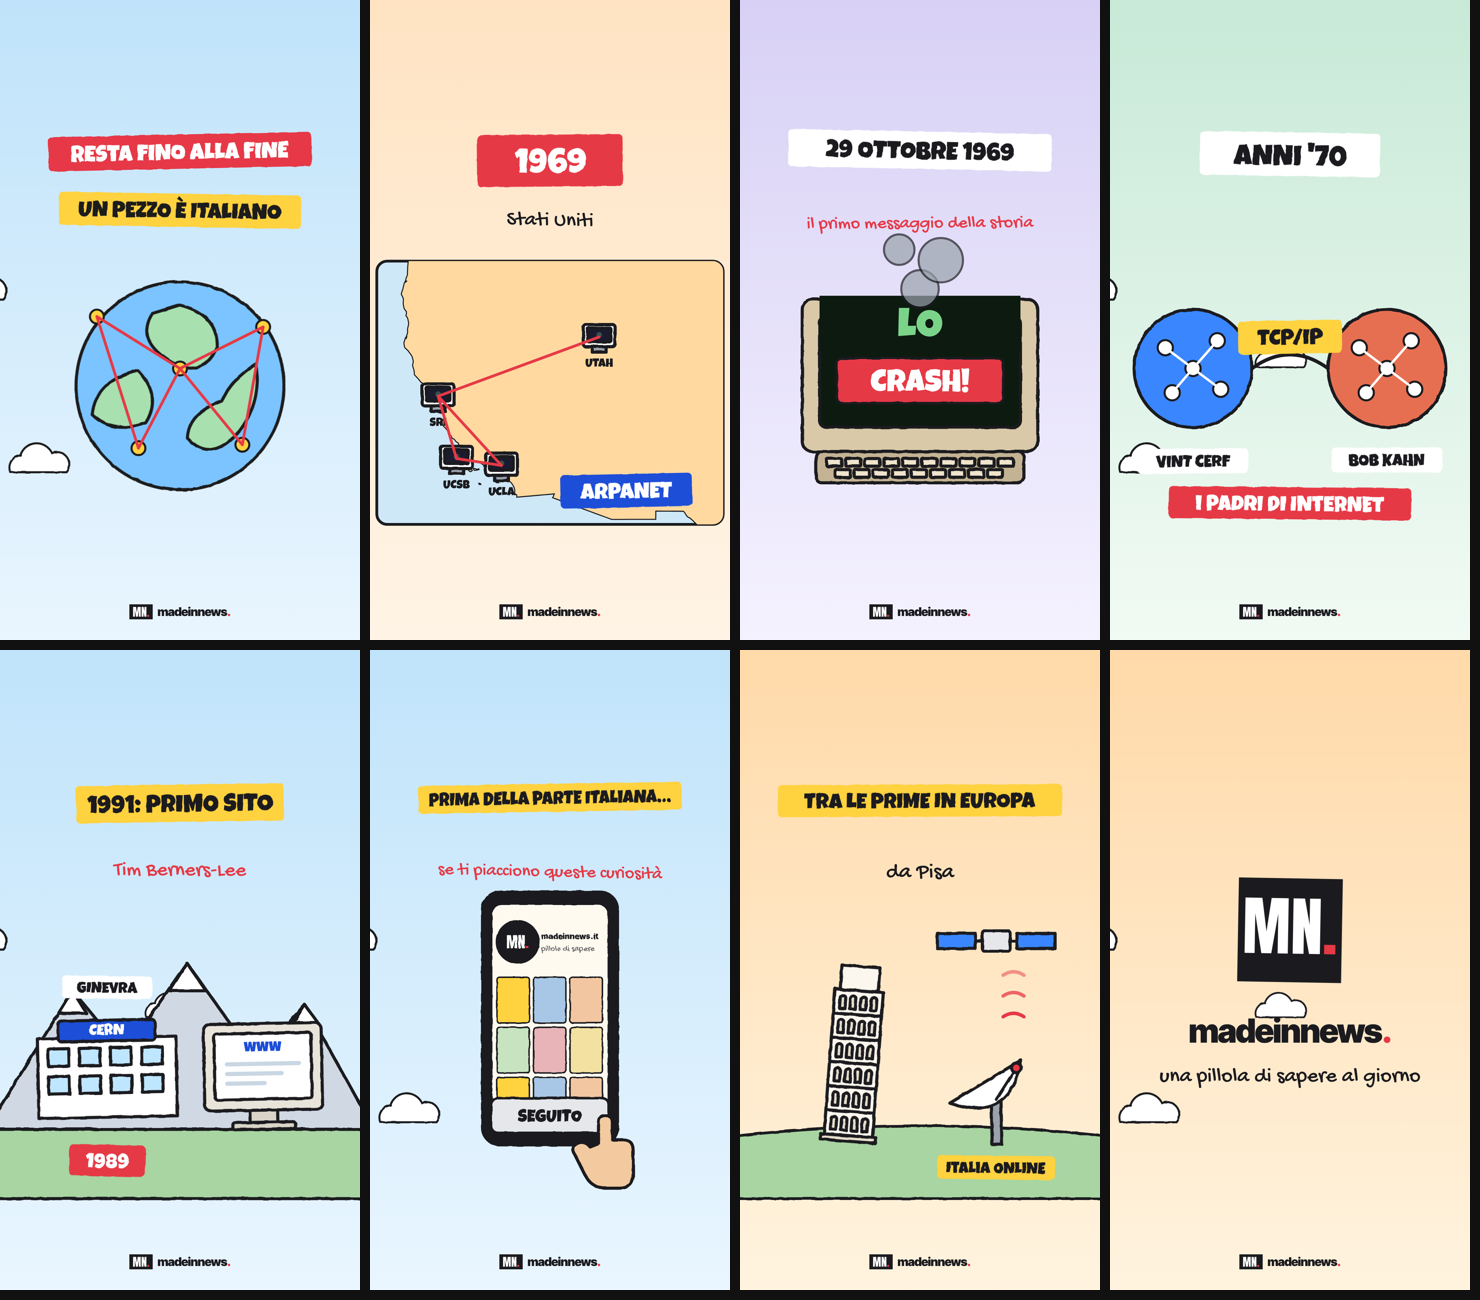
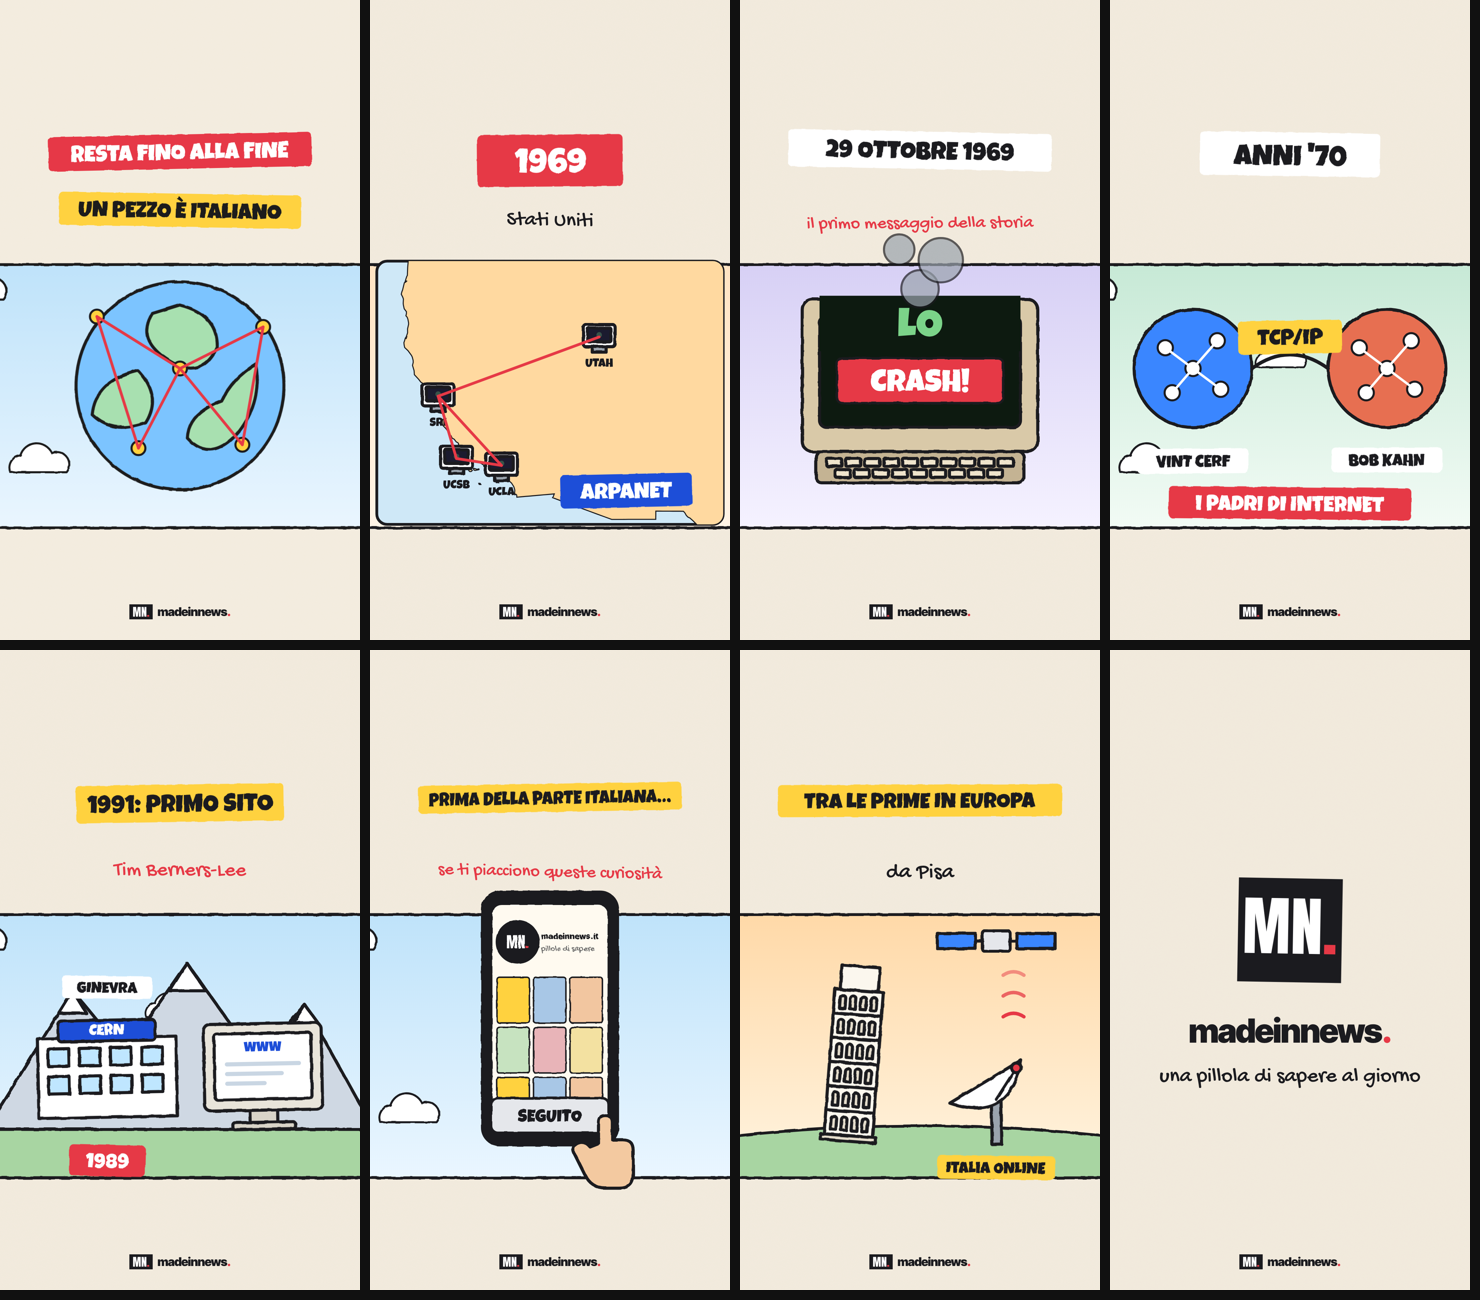
Internet: sfondo crema come GTA
Claude-Session: https://claude.ai/code/session_01RiLp1FWEa9A5i6rpLf5r8e

diff --git a/engine/internet_build.js b/engine/internet_build.js
@@ -86,11 +86,12 @@ const phoneCTA=(t1,t2,t3)=>`<g data-rise="${t1},0.6,600">${phone(540,1100,0.85)}
  <g data-fade="${t2},0.15" style="opacity:0"><g data-mv="0,0.01,500,500,500,500,${t2},0.5,500,500,0,0"><g transform="translate(680,1460)" filter="url(#wob)" ${W}><path d="M0 0 L0 -60 Q0 -80 20 -80 Q40 -80 40 -60 L40 -10 L70 -10 Q100 -10 100 20 L100 90 Q100 130 60 130 L20 130 Q-20 130 -40 90 L-70 30 Q-80 10 -60 0 Q-40 -8 -25 10Z" fill="#f3c9a0"/></g></g></g>`;
 const M=JSON.parse(fs.readFileSync(__dirname+'/assets/atlantico.json','utf8'));
 const usaD=M.paths['United States of America'];
+let SBI=0;const skyBand=(c1,c2)=>{const id='sb'+(SBI++);return `<defs><linearGradient id="${id}" x1="0" y1="0" x2="0" y2="1"><stop offset="0" stop-color="${c1}"/><stop offset="1" stop-color="${c2}"/></linearGradient></defs><rect x="0" y="800" width="1080" height="760" fill="url(#${id})"/><g filter="url(#wob)"><line x1="-10" y1="800" x2="1090" y2="800" stroke="${INK}" stroke-width="8"/><line x1="-10" y1="1560" x2="1090" y2="1560" stroke="${INK}" stroke-width="8"/></g>`};
 const node=(x,y,t,l)=>`<g data-pop="${t},0.4" ${C}><g filter="url(#wob)" ${W}><rect x="${x-46}" y="${y-36}" width="92" height="64" rx="8" fill="#fff"/><rect x="${x-34}" y="${y-26}" width="68" height="40" rx="4" fill="#1b1b2f"/><rect x="${x-20}" y="${y+28}" width="40" height="16" fill="#9aa3ad"/></g><circle cx="${x}" cy="${y-6}" r="8" fill="#7bd389" data-flash="${t},0.5,0.3"/>${l?`<text x="${x}" y="${y+86}" text-anchor="middle" ${F('Luckiest Guy')} font-size="34" fill="${INK}">${l}</text>`:''}</g>`;
 const terminal=(x,y)=>`<g transform="translate(${x},${y})"><g filter="url(#wob)" ${W}><rect x="-340" y="-250" width="680" height="440" rx="30" fill="#d9c9a8"/><rect x="-290" y="-200" width="580" height="320" rx="20" fill="#0d1a10"/><rect x="-300" y="190" width="600" height="90" rx="16" fill="#c4b393"/>${[...Array(10)].map((_,k)=>`<rect x="${-270+k*55}" y="210" width="44" height="22" rx="4" fill="#efe4cc"/>`).join('')}${[...Array(9)].map((_,k)=>`<rect x="${-245+k*55}" y="242" width="44" height="22" rx="4" fill="#efe4cc"/>`).join('')}</g></g>`;
 const smoke=(x,y,t)=>`<g data-fade="${t},0.3" style="opacity:0">${[0,1,2].map(k=>`<g data-loop="0,-160,${1.3+k*0.3}"><circle cx="${x-60+k*60}" cy="${y}" r="${44+k*10}" fill="#9aa3ad" opacity=".7" stroke="${INK}" stroke-width="6"/></g>`).join('')}</g>`;
 const netCloud=(x,y,c,t)=>`<g data-pop="${t},0.5" ${C}><g filter="url(#wob)" ${W}><circle cx="${x}" cy="${y}" r="170" fill="${c}"/></g>${[[-80,-60],[70,-80],[-60,70],[80,60],[0,0]].map(([a,b],k)=>`<circle cx="${x+a}" cy="${y+b}" r="22" fill="#fff" stroke="${INK}" stroke-width="6"/>`).join('')}<g stroke="#fff" stroke-width="7"><line x1="${x-80}" y1="${y-60}" x2="${x}" y2="${y}"/><line x1="${x+70}" y1="${y-80}" x2="${x}" y2="${y}"/><line x1="${x-60}" y1="${y+70}" x2="${x}" y2="${y}"/><line x1="${x+80}" y1="${y+60}" x2="${x}" y2="${y}"/></g></g>`;
-const mountains=()=>`<g filter="url(#wob)" ${W}><path d="M-20 1420 L230 1020 L380 1200 L560 940 L760 1220 L900 1060 L1100 1420Z" fill="#cfd8e3"/><path d="M230 1020 L190 1085 L270 1085Z M560 940 L510 1020 L615 1020Z M900 1060 L865 1115 L940 1115Z" fill="#fff"/><rect x="-20" y="1420" width="1120" height="200" fill="#a8d5a2"/></g>`;
+const mountains=()=>`<g filter="url(#wob)" ${W}><path d="M-20 1420 L230 1020 L380 1200 L560 940 L760 1220 L900 1060 L1100 1420Z" fill="#cfd8e3"/><path d="M230 1020 L190 1085 L270 1085Z M560 940 L510 1020 L615 1020Z M900 1060 L865 1115 L940 1115Z" fill="#fff"/><rect x="-20" y="1420" width="1120" height="140" fill="#a8d5a2"/></g>`;
 const cern=(x,y)=>`<g transform="translate(${x},${y})" filter="url(#wob)" ${W}><rect x="-200" y="-150" width="400" height="230" fill="#fff"/>${[0,1].map(r=>[0,1,2,3].map(c=>`<rect x="${-170+c*90}" y="${-120+r*80}" width="60" height="50" fill="#bfe6ff"/>`).join('')).join('')}<rect x="-140" y="-200" width="280" height="60" rx="10" fill="#1d4ed8"/><text x="0" y="-158" text-anchor="middle" ${F('Luckiest Guy')} font-size="44" fill="#fff" stroke="none">CERN</text></g>`;
 const monitor=(x,y,t)=>`<g transform="translate(${x},${y})"><g filter="url(#wob)" ${W}><rect x="-170" y="-140" width="340" height="250" rx="18" fill="#e8e4da"/><rect x="-140" y="-112" width="280" height="190" rx="8" fill="#fff"/><rect x="-40" y="110" width="80" height="40" fill="#d9d4c8"/><rect x="-90" y="145" width="180" height="20" rx="6" fill="#d9d4c8"/></g><g data-fade="${t},0.3" style="opacity:0"><text x="0" y="-60" text-anchor="middle" ${F('Luckiest Guy')} font-size="40" fill="#1d4ed8">WWW</text>${[0,1,2].map(k=>`<rect x="-110" y="${-30+k*28}" width="${220-k*50}" height="12" rx="6" fill="#c9d6e3"/>`).join('')}</g></g>`;
 const pisa=(x,y)=>`<g transform="translate(${x},${y}) rotate(5)" filter="url(#wob)" ${W}>${[0,1,2,3,4,5].map(k=>`<rect x="-70" y="${-k*70-70}" width="140" height="70" fill="#fbf7ee"/>${[-45,-15,15,45].map(a=>`<path d="M${a-8} ${-k*70-15} l0 -30 a8 8 0 0 1 16 0 l0 30z" fill="#e5ddcc"/>`).join('')}`).join('')}<rect x="-55" y="-490" width="110" height="70" fill="#fbf7ee"/><rect x="-80" y="0" width="160" height="16" fill="#e5ddcc"/></g>`;
@@ -106,20 +107,20 @@ const V=["Chi ha inventato internet? Non una persona sola. Resta fino alla fine:
 "Hai altre curiosità? Scrivile nei commenti. Made in News: una pillola di sapere al giorno."];
 const SCN=[
 {cam:"0,1.0,0,0",
- html:S(bg+`${skyBg('#bfe3fa','#eaf6ff')}${clouds()}
+ html:S(bg+`${skyBand('#bfe3fa','#eaf6ff')}${clouds()}
  <g data-off="@Resta">${pop('@Chi',hand(540,420,'chi ha inventato…',58,INK))}${pop('@internet',title(450,'INTERNET?',140))}${pop('@persona',hl(680,700,'NON UNA PERSONA SOLA',64,YEL))}</g>
  ${pop('@Resta',hl(420,760,'RESTA FINO ALLA FINE',66,RED,'#fff'))}${pop('@italiano',hl(600,700,'UN PEZZO È ITALIANO',64,YEL))}
  <g data-pop="0.2,0.6" ${C}><g transform="translate(540,1150)"><g data-spin="12"><g filter="url(#wob)" ${W}><circle r="300" fill="#7cc4ff"/><path d="M-200 -120 Q-120 -200 -40 -150 Q20 -60 -80 -10 Q-180 40 -220 -40Z M60 -220 Q160 -180 200 -80 Q240 40 140 60 Q80 20 100 -80 Q60 -140 60 -220Z M-100 80 Q0 60 40 140 Q20 240 -60 260 Q-140 200 -100 80Z" fill="#a8e0b0"/></g></g></g></g>
  ${[[300,950],[780,980],[420,1330],[720,1320],[540,1100]].map(([x,y],k)=>`<g data-pop="${0.6+k*0.25},0.3" ${C}><circle cx="${x}" cy="${y}" r="20" fill="${YEL}" stroke="${INK}" stroke-width="6"/></g>`).join('')}
  <g stroke="${RED}" stroke-width="8" fill="none" stroke-linecap="round">${[[300,950,540,1100],[780,980,540,1100],[420,1330,540,1100],[720,1320,540,1100],[300,950,420,1330],[780,980,720,1320]].map(([a,b,c,d],k)=>`<path d="M${a} ${b} L${c} ${d}" data-draw="${0.9+k*0.2},0.4"/>`).join('')}</g>`)},
 {cam:"0,1.0,0,0",
- html:S(bg+`${skyBg('#ffe3c2','#fff4e6')}${pop('@1969',hl(420,420,'1969',100,RED,'#fff'))}${pop('@Stati',hand(540,690,'Stati Uniti',60))}
+ html:S(bg+`${skyBand('#ffe3c2','#fff4e6')}${pop('@1969',hl(420,420,'1969',100,RED,'#fff'))}${pop('@Stati',hand(540,690,'Stati Uniti',60))}
  <defs><clipPath id="usaclip"><rect x="40" y="790" width="1000" height="760" rx="30"/></clipPath></defs><g data-pop="0.2,0.6" ${C}><rect x="40" y="790" width="1000" height="760" rx="30" fill="#cfe8f7" stroke="${INK}" stroke-width="8"/><g clip-path="url(#usaclip)"><g transform="translate(540,1170) scale(1.7) translate(-344.1,-1134.3)"><path d="${usaD}" fill="#ffd9a0" stroke="${INK}" stroke-width="3" vector-effect="non-scaling-stroke"/></g></g></g>
  ${node(400,1380,'@rete','UCLA')}${node(270,1360,'@computer','UCSB')}${node(217,1180,'@computer','SRI')}${node(682,1009,'@università','UTAH')}
  <g stroke="${RED}" stroke-width="8" fill="none" stroke-linecap="round"><path d="M400 1380 L270 1360" data-draw="@pochi,0.4"/><path d="M400 1380 L217 1180" data-draw="@pochi,0.4"/><path d="M217 1180 L682 1009" data-draw="@alcune,0.4"/><path d="M270 1360 L217 1180" data-draw="@alcune,0.4"/></g>
  ${pop('@ARPANET',tagAt(760,1400,380,'ARPANET',64,'#1d4ed8','#fff'))}`)},
 {cam:"0,1.0,0,0",
- html:S(bg+`${skyBg('#d7d0f5','#f5f2ff')}${pop('@29',hl(420,760,'29 OTTOBRE 1969',72,'#fff'))}${pop('@primo',hand(540,690,'il primo messaggio della storia',52,RED))}
+ html:S(bg+`${skyBand('#d7d0f5','#f5f2ff')}${pop('@29',hl(420,760,'29 OTTOBRE 1969',72,'#fff'))}${pop('@primo',hand(540,690,'il primo messaggio della storia',52,RED))}
  <g data-pop="0.2,0.6" ${C}>${terminal(540,1150)}</g>
  <text x="540" y="1010" text-anchor="middle" ${F('Luckiest Guy')} font-size="120" fill="#7bd389" data-type="@LOGIN,0.6" data-text="LOGIN"></text>
  <g data-fade="@solo,0.2" style="opacity:0"><rect x="250" y="890" width="580" height="160" fill="#0d1a10"/><text x="540" y="1010" text-anchor="middle" ${F('Luckiest Guy')} font-size="120" fill="#7bd389" data-type="@L,0.3" data-text="LO"></text></g>
@@ -127,29 +128,29 @@ const SCN=[
  ${smoke(540,880,'@blocca')}
  <g data-stamp="@blocca" ${C}><g filter="url(#wob)"><g class="bx"><rect x="300" y="1070" width="480" height="130" rx="16" fill="${RED}" stroke="${INK}" stroke-width="7"/><text x="540" y="1160" text-anchor="middle" ${F('Luckiest Guy')} font-size="90" fill="#fff">CRASH!</text></g></g></g>`)},
 {cam:"0,1.0,0,0",
- html:S(bg+`${skyBg('#c7e9d6','#f2fbf5')}${clouds()}${pop("@'70",hl(420,520,"ANNI '70",84,'#fff'))}
+ html:S(bg+`${skyBand('#c7e9d6','#f2fbf5')}${clouds()}${pop("@'70",hl(420,520,"ANNI '70",84,'#fff'))}
  ${netCloud(260,1100,'#3a86ff','@reti')}${netCloud(820,1100,'#e76f51','@diverse')}
  <g stroke="${INK}" stroke-width="10" fill="none" stroke-linecap="round"><path d="M430 1100 Q540 1020 650 1100" data-draw="@parlarsi,0.6"/></g>
  ${pop('@TCP/IP',tagAt(540,960,300,'TCP/IP',64,YEL))}
  ${pop('@Vint',tagAt(260,1330,320,'VINT CERF',48,'#fff'))}${pop('@Bob',tagAt(820,1330,320,'BOB KAHN',48,'#fff'))}
  ${pop('@padri',hl(1440,700,'I PADRI DI INTERNET',62,RED,'#fff'))}`)},
 {cam:"0,1.0,0,0",
- html:S(bg+`${skyBg('#bfe3fa','#eaf6ff')}${clouds()}<g data-off="@1991">${pop('@web?',hl(420,500,'E IL WEB?',90,YEL))}</g>${pop('@1991',hl(420,600,'1991: PRIMO SITO',72,YEL))}
+ html:S(bg+`${skyBand('#bfe3fa','#eaf6ff')}${clouds()}<g data-off="@1991">${pop('@web?',hl(420,500,'E IL WEB?',90,YEL))}</g>${pop('@1991',hl(420,600,'1991: PRIMO SITO',72,YEL))}
  ${pop('@Tim',hand(540,690,'Tim Berners-Lee',60,RED))}
  ${mountains()}${pop('@CERN',cern(330,1300))}${pop('@1989',tagAt(330,1470,220,'1989',60,RED,'#fff'))}
  ${pop('@online',monitor(780,1250,'@sito'))}${pop('@Ginevra',tagAt(330,980,260,'GINEVRA',44,'#fff'))}`)},
 {cam:"0,1.0,0,0",
- html:S(bg+`${skyBg('#bfe3fa','#eaf6ff')}${clouds()}${pop('@Prima',hl(420,760,'PRIMA DELLA PARTE ITALIANA…',54))}${pop('@piacciono',hand(540,690,'se ti piacciono queste curiosità',52,RED))}
+ html:S(bg+`${skyBand('#bfe3fa','#eaf6ff')}${clouds()}${pop('@Prima',hl(420,760,'PRIMA DELLA PARTE ITALIANA…',54))}${pop('@piacciono',hand(540,690,'se ti piacciono queste curiosità',52,RED))}
  ${phoneCTA('@Prima','@segui','@Made')}`)},
 {cam:"0,1.0,0,0",
- html:S(bg+`${skyBg('#ffd9a8','#fff4e0')}<g data-off="@Europa">${pop('@30',hl(420,700,'30 APRILE 1986',76,RED,'#fff'))}</g>${pop('@Pisa',hand(540,690,'da Pisa',64,INK))}
+ html:S(bg+`${skyBand('#ffd9a8','#fff4e0')}<g data-off="@Europa">${pop('@30',hl(420,700,'30 APRILE 1986',76,RED,'#fff'))}</g>${pop('@Pisa',hand(540,690,'da Pisa',64,INK))}
  ${sat(760,880)}
- <path d="M0 1440 Q540 1380 1080 1440 L1080 1620 L0 1620Z" fill="#a8d5a2" stroke="${INK}" stroke-width="8" filter="url(#wob)"/>
+ <path d="M0 1440 Q540 1380 1080 1440 L1080 1560 L0 1560Z" fill="#a8d5a2" stroke="${INK}" stroke-width="8" filter="url(#wob)"/>
  ${pop('@Pisa',pisa(330,1440))}${pop('@collega',dish(760,1330))}
  <g data-fade="@collega,0.2" style="opacity:0">${[0,1,2].map(k=>`<g data-loop="0,-150,${1.0}"><path d="M${780+k*0} ${1230-k*60} q30 -20 60 0" stroke="${RED}" stroke-width="10" fill="none" stroke-linecap="round" opacity="${1-k*0.25}"/></g>`).join('')}</g>
  ${pop('@internet.',tagAt(760,1500,340,'ITALIA ONLINE',46,YEL))}${pop('@Europa',hl(420,820,'TRA LE PRIME IN EUROPA',62,YEL))}`)},
 {cam:"0,1.0,0,0",
- html:S(bg+`${skyBg('#ffd9a8','#fff4e0')}${clouds()}<g data-off="@Made">${pop('@Hai',hl(560,760,'HAI ALTRE CURIOSITÀ?',66,YEL))}
+ html:S(bg+`<g data-off="@Made">${pop('@Hai',hl(560,760,'HAI ALTRE CURIOSITÀ?',66,YEL))}
  <g data-pop="@Scrivile,0.5" ${C}><g data-idle="8,2.2,0" ${C}><g transform="translate(540,1080)" filter="url(#wob)" ${W}><path d="M-300 -180 Q-300 -220 -260 -220 L260 -220 Q300 -220 300 -180 L300 120 Q300 160 260 160 L-60 160 L-160 260 L-140 160 L-260 160 Q-300 160 -300 120Z" fill="#fff"/>
   ${[0,1,2].map(k=>`<rect x="-230" y="${-150+k*80}" width="${[400,460,300][k]}" height="30" rx="15" fill="#e5e7eb" stroke="none" style="transform-box:fill-box;transform-origin:left" data-grow="@commenti,0.4"/>`).join('')}</g></g></g>
  ${pop('@commenti',hl(1330,700,'SCRIVILE NEI COMMENTI',60,RED,'#fff'))}</g>
